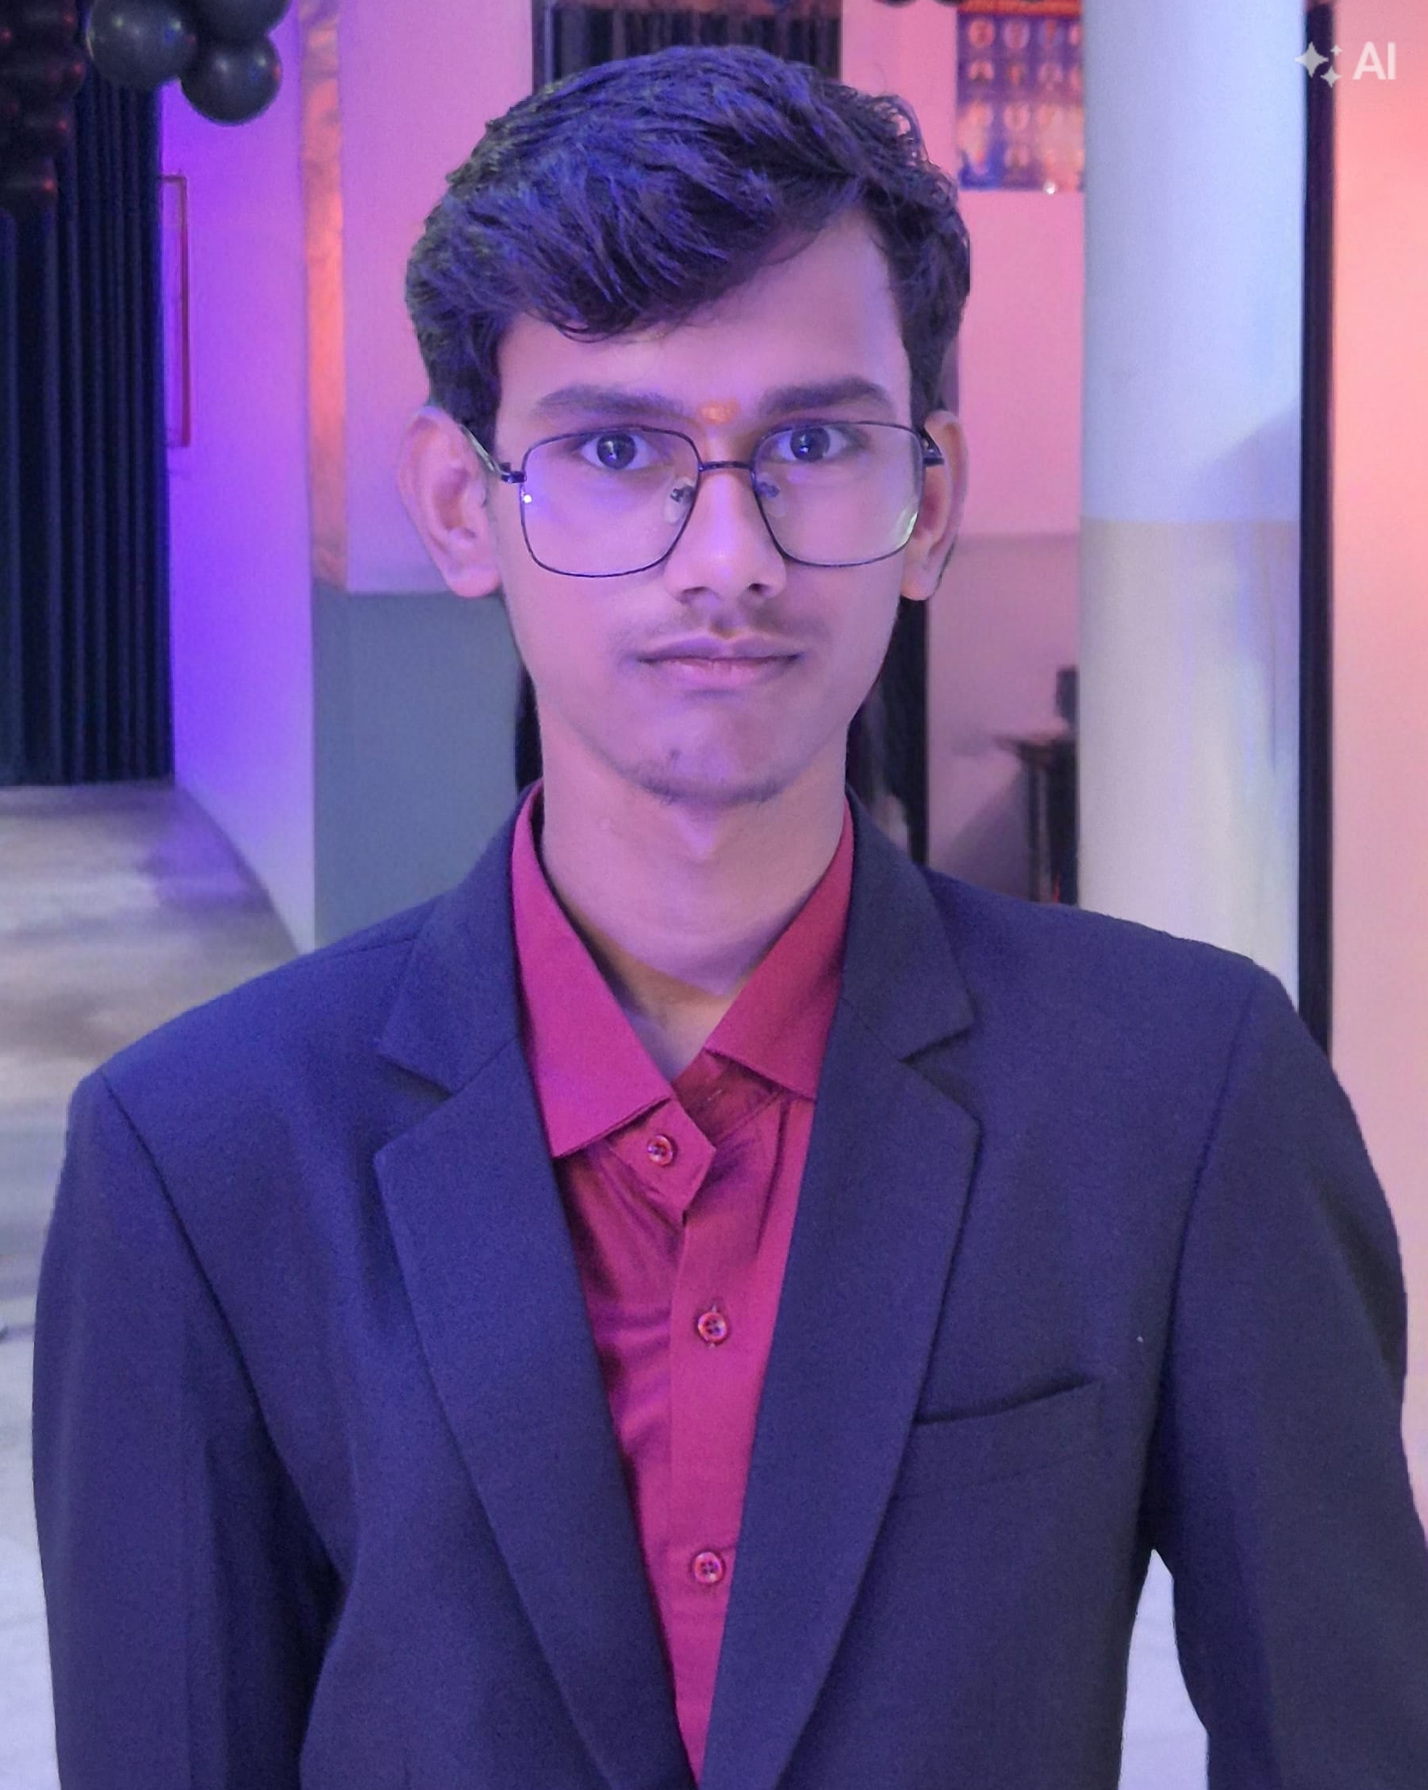
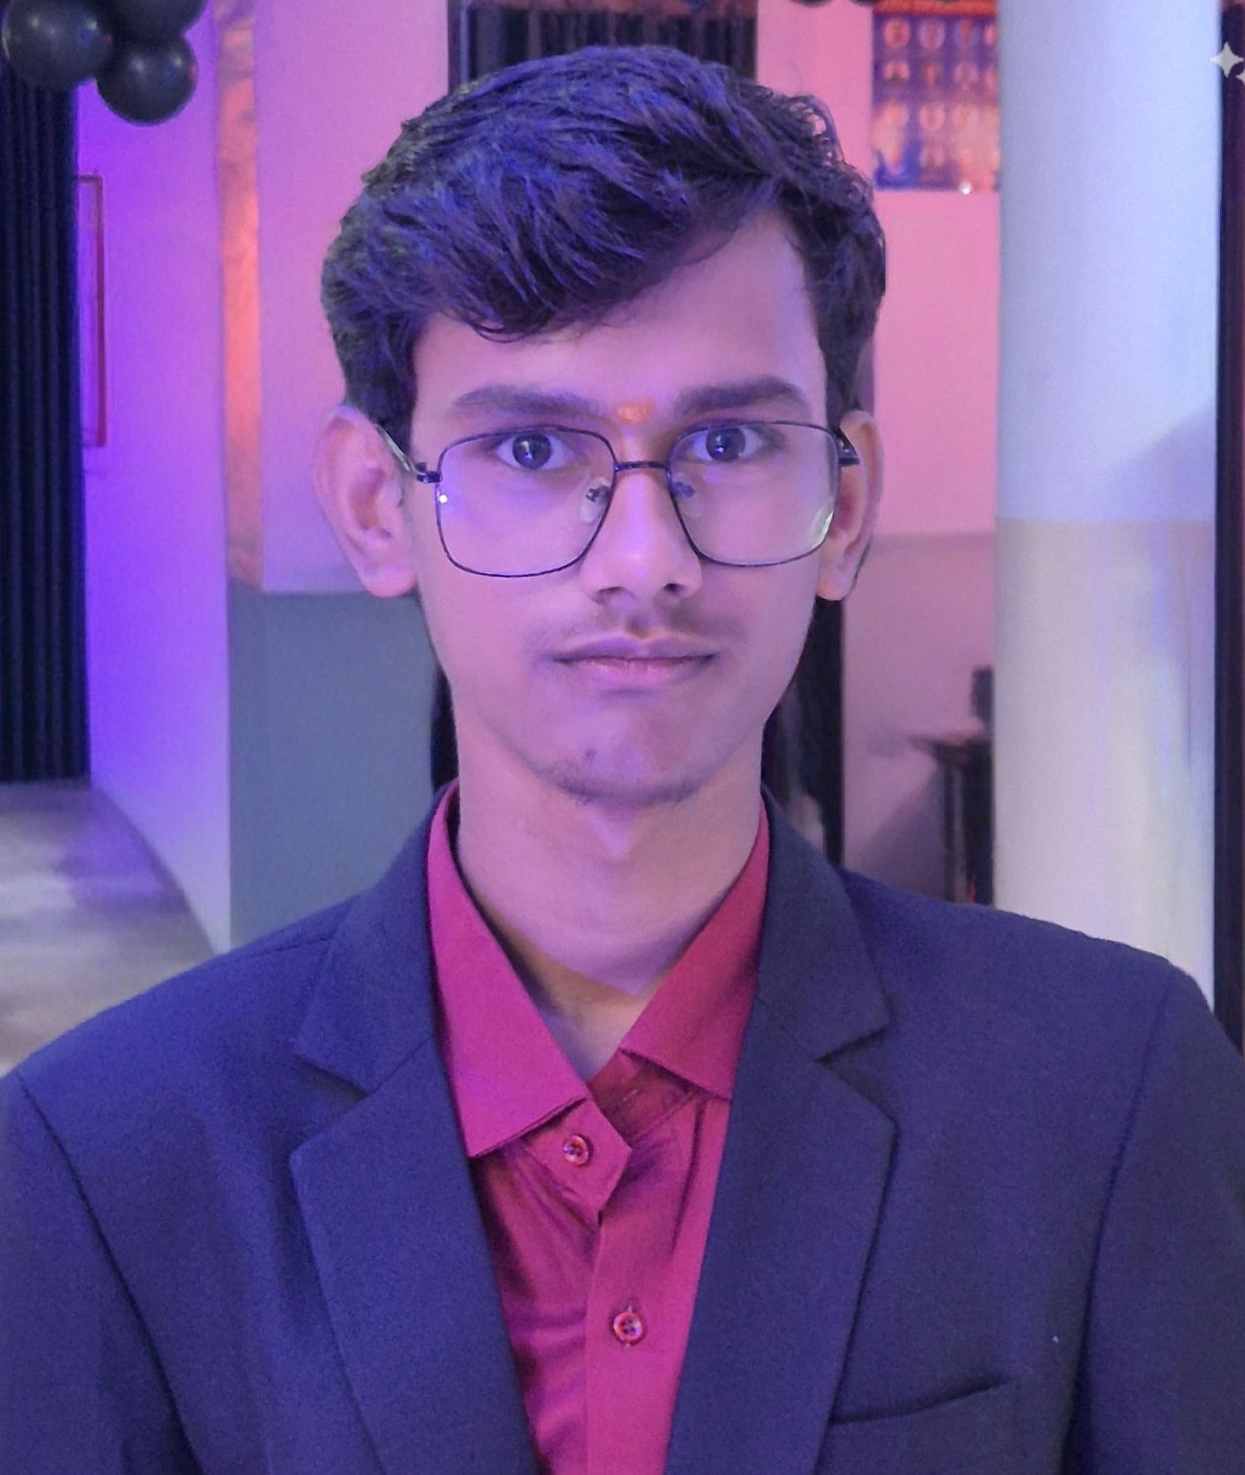
Update newly cropped member images and add Vice-President Laxman Mahto

diff --git a/index.html b/index.html
@@ -401,7 +401,8 @@
           <!-- NSS Program Officer -->
           <div class="member-card">
             <div class="member-photo-frame">
-              <img src="assets/images/members/prof-bs-yadav.jpg" alt="Prof. Dr. B.S. Yadav - NSS CELL UEM Jaipur" class="member-photo-img" loading="lazy">
+              <img src="assets/images/members/prof-bs-yadav.jpg" alt="Prof. Dr. B.S. Yadav - NSS CELL UEM Jaipur"
+                class="member-photo-img" loading="lazy">
               <span class="member-department-tag">Advisory</span>
             </div>
             <div class="member-details-box">
@@ -425,7 +426,8 @@
           <!-- NSS Faculty Coordinator -->
           <div class="member-card">
             <div class="member-photo-frame">
-              <img src="assets/images/members/prof-rajni-beniwal.jpg" alt="Prof. Rajni Beniwal - NSS CELL UEM Jaipur" class="member-photo-img" loading="lazy">
+              <img src="assets/images/members/prof-rajni-beniwal.jpg" alt="Prof. Rajni Beniwal - NSS CELL UEM Jaipur"
+                class="member-photo-img" loading="lazy">
               <span class="member-department-tag">Coordination</span>
             </div>
             <div class="member-details-box">
@@ -460,7 +462,8 @@
           <!-- President -->
           <div class="member-card">
             <div class="member-photo-frame">
-              <img src="assets/images/members/yadvendra-saini.jpg" alt="Yadvendra Saini - NSS CELL UEM Jaipur" class="member-photo-img" loading="lazy">
+              <img src="assets/images/members/yadvendra-saini.jpg" alt="Yadvendra Saini - NSS CELL UEM Jaipur"
+                class="member-photo-img" loading="lazy">
               <span class="member-department-tag">Executive Council</span>
             </div>
             <div class="member-details-box">
@@ -472,20 +475,20 @@
                 </p>
               </div>
               <div class="member-social-row">
-                <a href="mailto:nss.president@uem.edu.in" class="member-social-icon" title="Email President"><i
-                    class="fas fa-envelope"></i></a>
-                <a href="https://linkedin.com" target="_blank" rel="noopener noreferrer" class="member-social-icon"
-                  title="LinkedIn"><i class="fab fa-linkedin-in"></i></a>
-                <a href="https://instagram.com" target="_blank" rel="noopener noreferrer" class="member-social-icon"
-                  title="Instagram"><i class="fab fa-instagram"></i></a>
+
+                <a href="https://www.linkedin.com/in/yadvendra-saini-3bb843322" target="_blank"
+                  rel="noopener noreferrer" class="member-social-icon" title="LinkedIn"><i
+                    class="fab fa-linkedin-in"></i></a>
+
               </div>
             </div>
           </div>
 
-          <!-- Vice-President -->
+          <!-- Vice-President 1 -->
           <div class="member-card">
             <div class="member-photo-frame">
-              <img src="assets/images/members/kishan-pandit.jpg" alt="Kishan Pandit - NSS CELL UEM Jaipur" class="member-photo-img" loading="lazy">
+              <img src="assets/images/members/kishan-pandit.jpg" alt="Kishan Pandit - NSS CELL UEM Jaipur"
+                class="member-photo-img" loading="lazy">
               <span class="member-department-tag">Executive Council</span>
             </div>
             <div class="member-details-box">
@@ -497,12 +500,32 @@
                 </p>
               </div>
               <div class="member-social-row">
-                <a href="mailto:nss.vp@uem.edu.in" class="member-social-icon" title="Email Vice-President"><i
-                    class="fas fa-envelope"></i></a>
+
                 <a href="https://linkedin.com" target="_blank" rel="noopener noreferrer" class="member-social-icon"
                   title="LinkedIn"><i class="fab fa-linkedin-in"></i></a>
-                <a href="https://instagram.com" target="_blank" rel="noopener noreferrer" class="member-social-icon"
-                  title="Instagram"><i class="fab fa-instagram"></i></a>
+
+              </div>
+            </div>
+          </div>
+          <div class="member-card">
+            <div class="member-photo-frame">
+              <img src="assets/images/members/laxman-mahto.jpg" alt="Laxman Mahto - NSS CELL UEM Jaipur"
+                class="member-photo-img" loading="lazy">
+              <span class="member-department-tag">Executive Council</span>
+            </div>
+            <div class="member-details-box">
+              <div>
+                <h4 class="member-name">Laxman Mahto</h4>
+                <div class="member-designation">Vice-President</div>
+                <p style="font-size: 0.86rem; color: var(--text-muted); margin-bottom: 0.6rem;">
+                  B.Tech CSE • 3rd Year
+                </p>
+              </div>
+              <div class="member-social-row">
+
+                <a href="https://www.linkedin.com/in/laxmanmahto" target="_blank" rel="noopener noreferrer"
+                  class="member-social-icon" title="LinkedIn"><i class="fab fa-linkedin-in"></i></a>
+
               </div>
             </div>
           </div>
@@ -520,7 +543,8 @@
           <!-- Secretary 1 -->
           <div class="member-card">
             <div class="member-photo-frame">
-              <img src="assets/images/members/harsh-raj.jpg" alt="Harsh Raj - NSS CELL UEM Jaipur" class="member-photo-img" loading="lazy">
+              <img src="assets/images/members/harsh-raj.jpg" alt="Harsh Raj - NSS CELL UEM Jaipur"
+                class="member-photo-img" loading="lazy">
               <span class="member-department-tag">Secretariat</span>
             </div>
             <div class="member-details-box">
@@ -542,7 +566,8 @@
           <!-- Secretary 2 -->
           <div class="member-card">
             <div class="member-photo-frame">
-              <img src="assets/images/members/ankit-kumar.jpg" alt="Ankit Kumar - NSS CELL UEM Jaipur" class="member-photo-img" loading="lazy">
+              <img src="assets/images/members/ankit-kumar.jpg" alt="Ankit Kumar - NSS CELL UEM Jaipur"
+                class="member-photo-img" loading="lazy">
               <span class="member-department-tag">Secretariat </span>
             </div>
             <div class="member-details-box">
@@ -574,7 +599,8 @@
           <!-- 1. Photography Head -->
           <div class="member-card">
             <div class="member-photo-frame">
-              <img src="assets/images/members/aman-raj.png" alt="Aman Raj - NSS CELL UEM Jaipur" class="member-photo-img" loading="lazy">
+              <img src="assets/images/members/aman-raj.png" alt="Aman Raj - NSS CELL UEM Jaipur"
+                class="member-photo-img" loading="lazy">
               <span class="member-department-tag">Photography</span>
             </div>
             <div class="member-details-box">
@@ -587,8 +613,8 @@
               </p>
               <div class="member-social-row">
 
-                <a href="https://linkedin.com" target="_blank" rel="noopener noreferrer" class="member-social-icon"><i
-                    class="fab fa-linkedin-in"></i></a>
+                <a href="https://www.linkedin.com/in/aman-raj-7a043a377" target="_blank" rel="noopener noreferrer"
+                  class="member-social-icon"><i class="fab fa-linkedin-in"></i></a>
               </div>
             </div>
           </div>
@@ -596,7 +622,8 @@
           <!-- 2. Sponsor & Outreach Head -->
           <div class="member-card">
             <div class="member-photo-frame">
-              <img src="assets/images/members/manthan-sinha.jpg" alt="Manthan Sinha - NSS CELL UEM Jaipur" class="member-photo-img" loading="lazy">
+              <img src="assets/images/members/manthan-sinha.jpg" alt="Manthan Sinha - NSS CELL UEM Jaipur"
+                class="member-photo-img" loading="lazy">
               <span class="member-department-tag">Sponsorship</span>
             </div>
             <div class="member-details-box">
@@ -609,8 +636,8 @@
               </p>
               <div class="member-social-row">
 
-                <a href="https://linkedin.com" target="_blank" rel="noopener noreferrer" class="member-social-icon"><i
-                    class="fab fa-linkedin-in"></i></a>
+                <a href="https://www.linkedin.com/in/manthansinha7270" target="_blank" rel="noopener noreferrer"
+                  class="member-social-icon"><i class="fab fa-linkedin-in"></i></a>
               </div>
             </div>
           </div>
@@ -618,7 +645,8 @@
           <!-- 3. Graphic Head -->
           <div class="member-card">
             <div class="member-photo-frame">
-              <img src="assets/images/members/nenshi-suthar.jpg" alt="Nenshi Suthar - NSS CELL UEM Jaipur" class="member-photo-img" loading="lazy">
+              <img src="assets/images/members/nenshi-suthar.jpg" alt="Nenshi Suthar - NSS CELL UEM Jaipur"
+                class="member-photo-img" loading="lazy">
               <span class="member-department-tag">Graphics</span>
             </div>
             <div class="member-details-box">
@@ -642,7 +670,8 @@
           <!-- 4. PR Head -->
           <div class="member-card">
             <div class="member-photo-frame">
-              <img src="assets/images/members/rashi-sharma.jpg" alt="Rashi Sharma - NSS CELL UEM Jaipur" class="member-photo-img" loading="lazy">
+              <img src="assets/images/members/rashi-sharma.jpg" alt="Rashi Sharma - NSS CELL UEM Jaipur"
+                class="member-photo-img" loading="lazy">
               <span class="member-department-tag">Public Relations</span>
             </div>
             <div class="member-details-box">
@@ -664,7 +693,8 @@
           <!-- 5. Social Media Head -->
           <div class="member-card">
             <div class="member-photo-frame">
-              <img src="assets/images/members/nishita-rajpurohit.png" alt="Nishita Rajpurohit - NSS CELL UEM Jaipur" class="member-photo-img" loading="lazy">
+              <img src="assets/images/members/nishita-rajpurohit.png" alt="Nishita Rajpurohit - NSS CELL UEM Jaipur"
+                class="member-photo-img" loading="lazy">
               <span class="member-department-tag">Social Media</span>
             </div>
             <div class="member-details-box">
@@ -686,7 +716,8 @@
           <!-- 6. Video Editor Head -->
           <div class="member-card">
             <div class="member-photo-frame">
-              <img src="assets/images/members/anushka-das.jpg" alt="Anushka Das - NSS CELL UEM Jaipur" class="member-photo-img" loading="lazy">
+              <img src="assets/images/members/anushka-das.jpg" alt="Anushka Das - NSS CELL UEM Jaipur"
+                class="member-photo-img" loading="lazy">
               <span class="member-department-tag">Video Editing</span>
             </div>
             <div class="member-details-box">
@@ -708,7 +739,8 @@
           <!-- 7. Documentation Head -->
           <div class="member-card">
             <div class="member-photo-frame">
-              <img src="assets/images/members/adrija-dutta.jpg" alt="Adrija Dutta - NSS CELL UEM Jaipur" class="member-photo-img" loading="lazy">
+              <img src="assets/images/members/adrija-dutta.jpg" alt="Adrija Dutta - NSS CELL UEM Jaipur"
+                class="member-photo-img" loading="lazy">
               <span class="member-department-tag">Documentation</span>
             </div>
             <div class="member-details-box">
@@ -730,7 +762,8 @@
           <!-- 8. Creativity Head -->
           <div class="member-card">
             <div class="member-photo-frame">
-              <img src="assets/images/members/shivanshi-singh.jpg" alt="Shivanshi Singh - NSS CELL UEM Jaipur" class="member-photo-img" loading="lazy">
+              <img src="assets/images/members/shivanshi-singh.jpg" alt="Shivanshi Singh - NSS CELL UEM Jaipur"
+                class="member-photo-img" loading="lazy">
               <span class="member-department-tag">Creativity</span>
             </div>
             <div class="member-details-box">
@@ -752,7 +785,8 @@
           <!-- 9. Volunteer Coordinator -->
           <div class="member-card">
             <div class="member-photo-frame">
-              <img src="assets/images/members/yashraj-verma.jpg" alt="Yashraj Verma - NSS CELL UEM Jaipur" class="member-photo-img" loading="lazy">
+              <img src="assets/images/members/yashraj-verma.jpg" alt="Yashraj Verma - NSS CELL UEM Jaipur"
+                class="member-photo-img" loading="lazy">
               <span class="member-department-tag">Volunteers</span>
             </div>
             <div class="member-details-box">
@@ -774,7 +808,8 @@
           <!-- 10. Logistics Head -->
           <div class="member-card">
             <div class="member-photo-frame">
-              <img src="assets/images/members/ankit-kumar.jpg" alt="Ankit Kumar - NSS CELL UEM Jaipur" class="member-photo-img" loading="lazy">
+              <img src="assets/images/members/ankit-kumar.jpg" alt="Ankit Kumar - NSS CELL UEM Jaipur"
+                class="member-photo-img" loading="lazy">
               <span class="member-department-tag">Logistics</span>
             </div>
             <div class="member-details-box">
@@ -806,7 +841,8 @@
 
           <div class="member-card">
             <div class="member-photo-frame">
-              <img src="assets/images/members/chanchal-saini.jpg" alt="Chanchal Saini - NSS CELL UEM Jaipur" class="member-photo-img" loading="lazy">
+              <img src="assets/images/members/chanchal-saini.jpg" alt="Chanchal Saini - NSS CELL UEM Jaipur"
+                class="member-photo-img" loading="lazy">
               <span class="member-department-tag">PR</span>
             </div>
             <div class="member-details-box">
@@ -818,7 +854,8 @@
 
           <div class="member-card">
             <div class="member-photo-frame">
-              <img src="assets/images/members/divyanshu-vats.jpg" alt="Divyanshu Vats - NSS CELL UEM Jaipur" class="member-photo-img" loading="lazy">
+              <img src="assets/images/members/divyanshu-vats.jpg" alt="Divyanshu Vats - NSS CELL UEM Jaipur"
+                class="member-photo-img" loading="lazy">
               <span class="member-department-tag">Logistics</span>
             </div>
             <div class="member-details-box">
@@ -830,7 +867,8 @@
 
           <div class="member-card">
             <div class="member-photo-frame">
-              <img src="assets/images/members/harshika-soni.jpg" alt="Harshika Soni - NSS CELL UEM Jaipur" class="member-photo-img" loading="lazy">
+              <img src="assets/images/members/harshika-soni.jpg" alt="Harshika Soni - NSS CELL UEM Jaipur"
+                class="member-photo-img" loading="lazy">
               <span class="member-department-tag">Social Media</span>
             </div>
             <div class="member-details-box">
@@ -842,7 +880,8 @@
 
           <div class="member-card">
             <div class="member-photo-frame">
-              <img src="assets/images/members/sayed-hasan.webp" alt="Sayed Hasan - NSS CELL UEM Jaipur" class="member-photo-img" loading="lazy">
+              <img src="assets/images/members/sayed-hasan.webp" alt="Sayed Hasan - NSS CELL UEM Jaipur"
+                class="member-photo-img" loading="lazy">
               <span class="member-department-tag">Graphics</span>
             </div>
             <div class="member-details-box">
@@ -853,7 +892,8 @@
           </div>
           <div class="member-card">
             <div class="member-photo-frame">
-              <img src="assets/images/members/raghav-pilodiya.jpg" alt="Raghav Pilodiya - NSS CELL UEM Jaipur" class="member-photo-img" loading="lazy">
+              <img src="assets/images/members/raghav-pilodiya.jpg" alt="Raghav Pilodiya - NSS CELL UEM Jaipur"
+                class="member-photo-img" loading="lazy">
               <span class="member-department-tag">Graphics</span>
             </div>
             <div class="member-details-box">
@@ -864,7 +904,8 @@
           </div>
           <div class="member-card">
             <div class="member-photo-frame">
-              <img src="assets/images/members/shubham-kumar.png" alt="Shubham Kumar - NSS CELL UEM Jaipur" class="member-photo-img" loading="lazy">
+              <img src="assets/images/members/shubham-kumar.png" alt="Shubham Kumar - NSS CELL UEM Jaipur"
+                class="member-photo-img" loading="lazy">
               <span class="member-department-tag">Photography & Editor</span>
             </div>
             <div class="member-details-box">
@@ -875,7 +916,8 @@
           </div>
           <div class="member-card">
             <div class="member-photo-frame">
-              <img src="assets/images/members/suchita-chaudhary.jpg" alt="Suchita Chaudhary - NSS CELL UEM Jaipur" class="member-photo-img" loading="lazy">
+              <img src="assets/images/members/suchita-chaudhary.jpg" alt="Suchita Chaudhary - NSS CELL UEM Jaipur"
+                class="member-photo-img" loading="lazy">
               <span class="member-department-tag">Documentation</span>
             </div>
             <div class="member-details-box">
@@ -886,7 +928,8 @@
           </div>
           <div class="member-card">
             <div class="member-photo-frame">
-              <img src="assets/images/members/rishikesh-jha.jpg" alt="Rishikesh Jha - NSS CELL UEM Jaipur" class="member-photo-img" loading="lazy">
+              <img src="assets/images/members/rishikesh-jha.jpg" alt="Rishikesh Jha - NSS CELL UEM Jaipur"
+                class="member-photo-img" loading="lazy">
               <span class="member-department-tag">Photography & Editor</span>
             </div>
             <div class="member-details-box">
@@ -897,7 +940,8 @@
           </div>
           <div class="member-card">
             <div class="member-photo-frame">
-              <img src="assets/images/members/blank-avatar.svg" alt="Ashutosh Pandey - NSS CELL UEM Jaipur" class="member-photo-img" loading="lazy">
+              <img src="assets/images/members/blank-avatar.svg" alt="Ashutosh Pandey - NSS CELL UEM Jaipur"
+                class="member-photo-img" loading="lazy">
               <span class="member-department-tag">Logistics</span>
             </div>
             <div class="member-details-box">
@@ -908,7 +952,8 @@
           </div>
           <div class="member-card">
             <div class="member-photo-frame">
-              <img src="assets/images/members/blank-avatar.svg" alt="Yuvraj Singh Rathore - NSS CELL UEM Jaipur" class="member-photo-img" loading="lazy">
+              <img src="assets/images/members/blank-avatar.svg" alt="Yuvraj Singh Rathore - NSS CELL UEM Jaipur"
+                class="member-photo-img" loading="lazy">
               <span class="member-department-tag">Sponser </span>
             </div>
             <div class="member-details-box">
@@ -919,7 +964,8 @@
           </div>
           <div class="member-card">
             <div class="member-photo-frame">
-              <img src="assets/images/members/tarun-pandey.jpg" alt="Tarun Pandey - NSS CELL UEM Jaipur" class="member-photo-img" loading="lazy">
+              <img src="assets/images/members/tarun-pandey.jpg" alt="Tarun Pandey - NSS CELL UEM Jaipur"
+                class="member-photo-img" loading="lazy">
               <span class="member-department-tag">Logistics</span>
             </div>
             <div class="member-details-box">
@@ -930,7 +976,8 @@
           </div>
           <div class="member-card">
             <div class="member-photo-frame">
-              <img src="assets/images/members/kritika-saini.png" alt="Kritika Saini - NSS CELL UEM Jaipur" class="member-photo-img" loading="lazy">
+              <img src="assets/images/members/kritika-saini.png" alt="Kritika Saini - NSS CELL UEM Jaipur"
+                class="member-photo-img" loading="lazy">
               <span class="member-department-tag">Creativity</span>
             </div>
             <div class="member-details-box">
@@ -941,7 +988,8 @@
           </div>
           <div class="member-card">
             <div class="member-photo-frame">
-              <img src="assets/images/members/blank-avatar.svg" alt="Rahul Kumar Singh - NSS CELL UEM Jaipur" class="member-photo-img" loading="lazy">
+              <img src="assets/images/members/blank-avatar.svg" alt="Rahul Kumar Singh - NSS CELL UEM Jaipur"
+                class="member-photo-img" loading="lazy">
               <span class="member-department-tag">Logistics</span>
             </div>
             <div class="member-details-box">

diff --git a/css/styles.css b/css/styles.css
@@ -1049,10 +1049,10 @@ ul {
   gap: 2.5rem;
 }
 
-/* Tier 2: President & VP (2 columns centered) */
+/* Tier 2: President & Vice-Presidents (3 columns centered on desktop) */
 .tier-grid-exec {
   display: grid;
-  grid-template-columns: repeat(2, minmax(280px, 400px));
+  grid-template-columns: repeat(auto-fit, minmax(280px, 360px));
   justify-content: center;
   gap: 2.5rem;
 }
